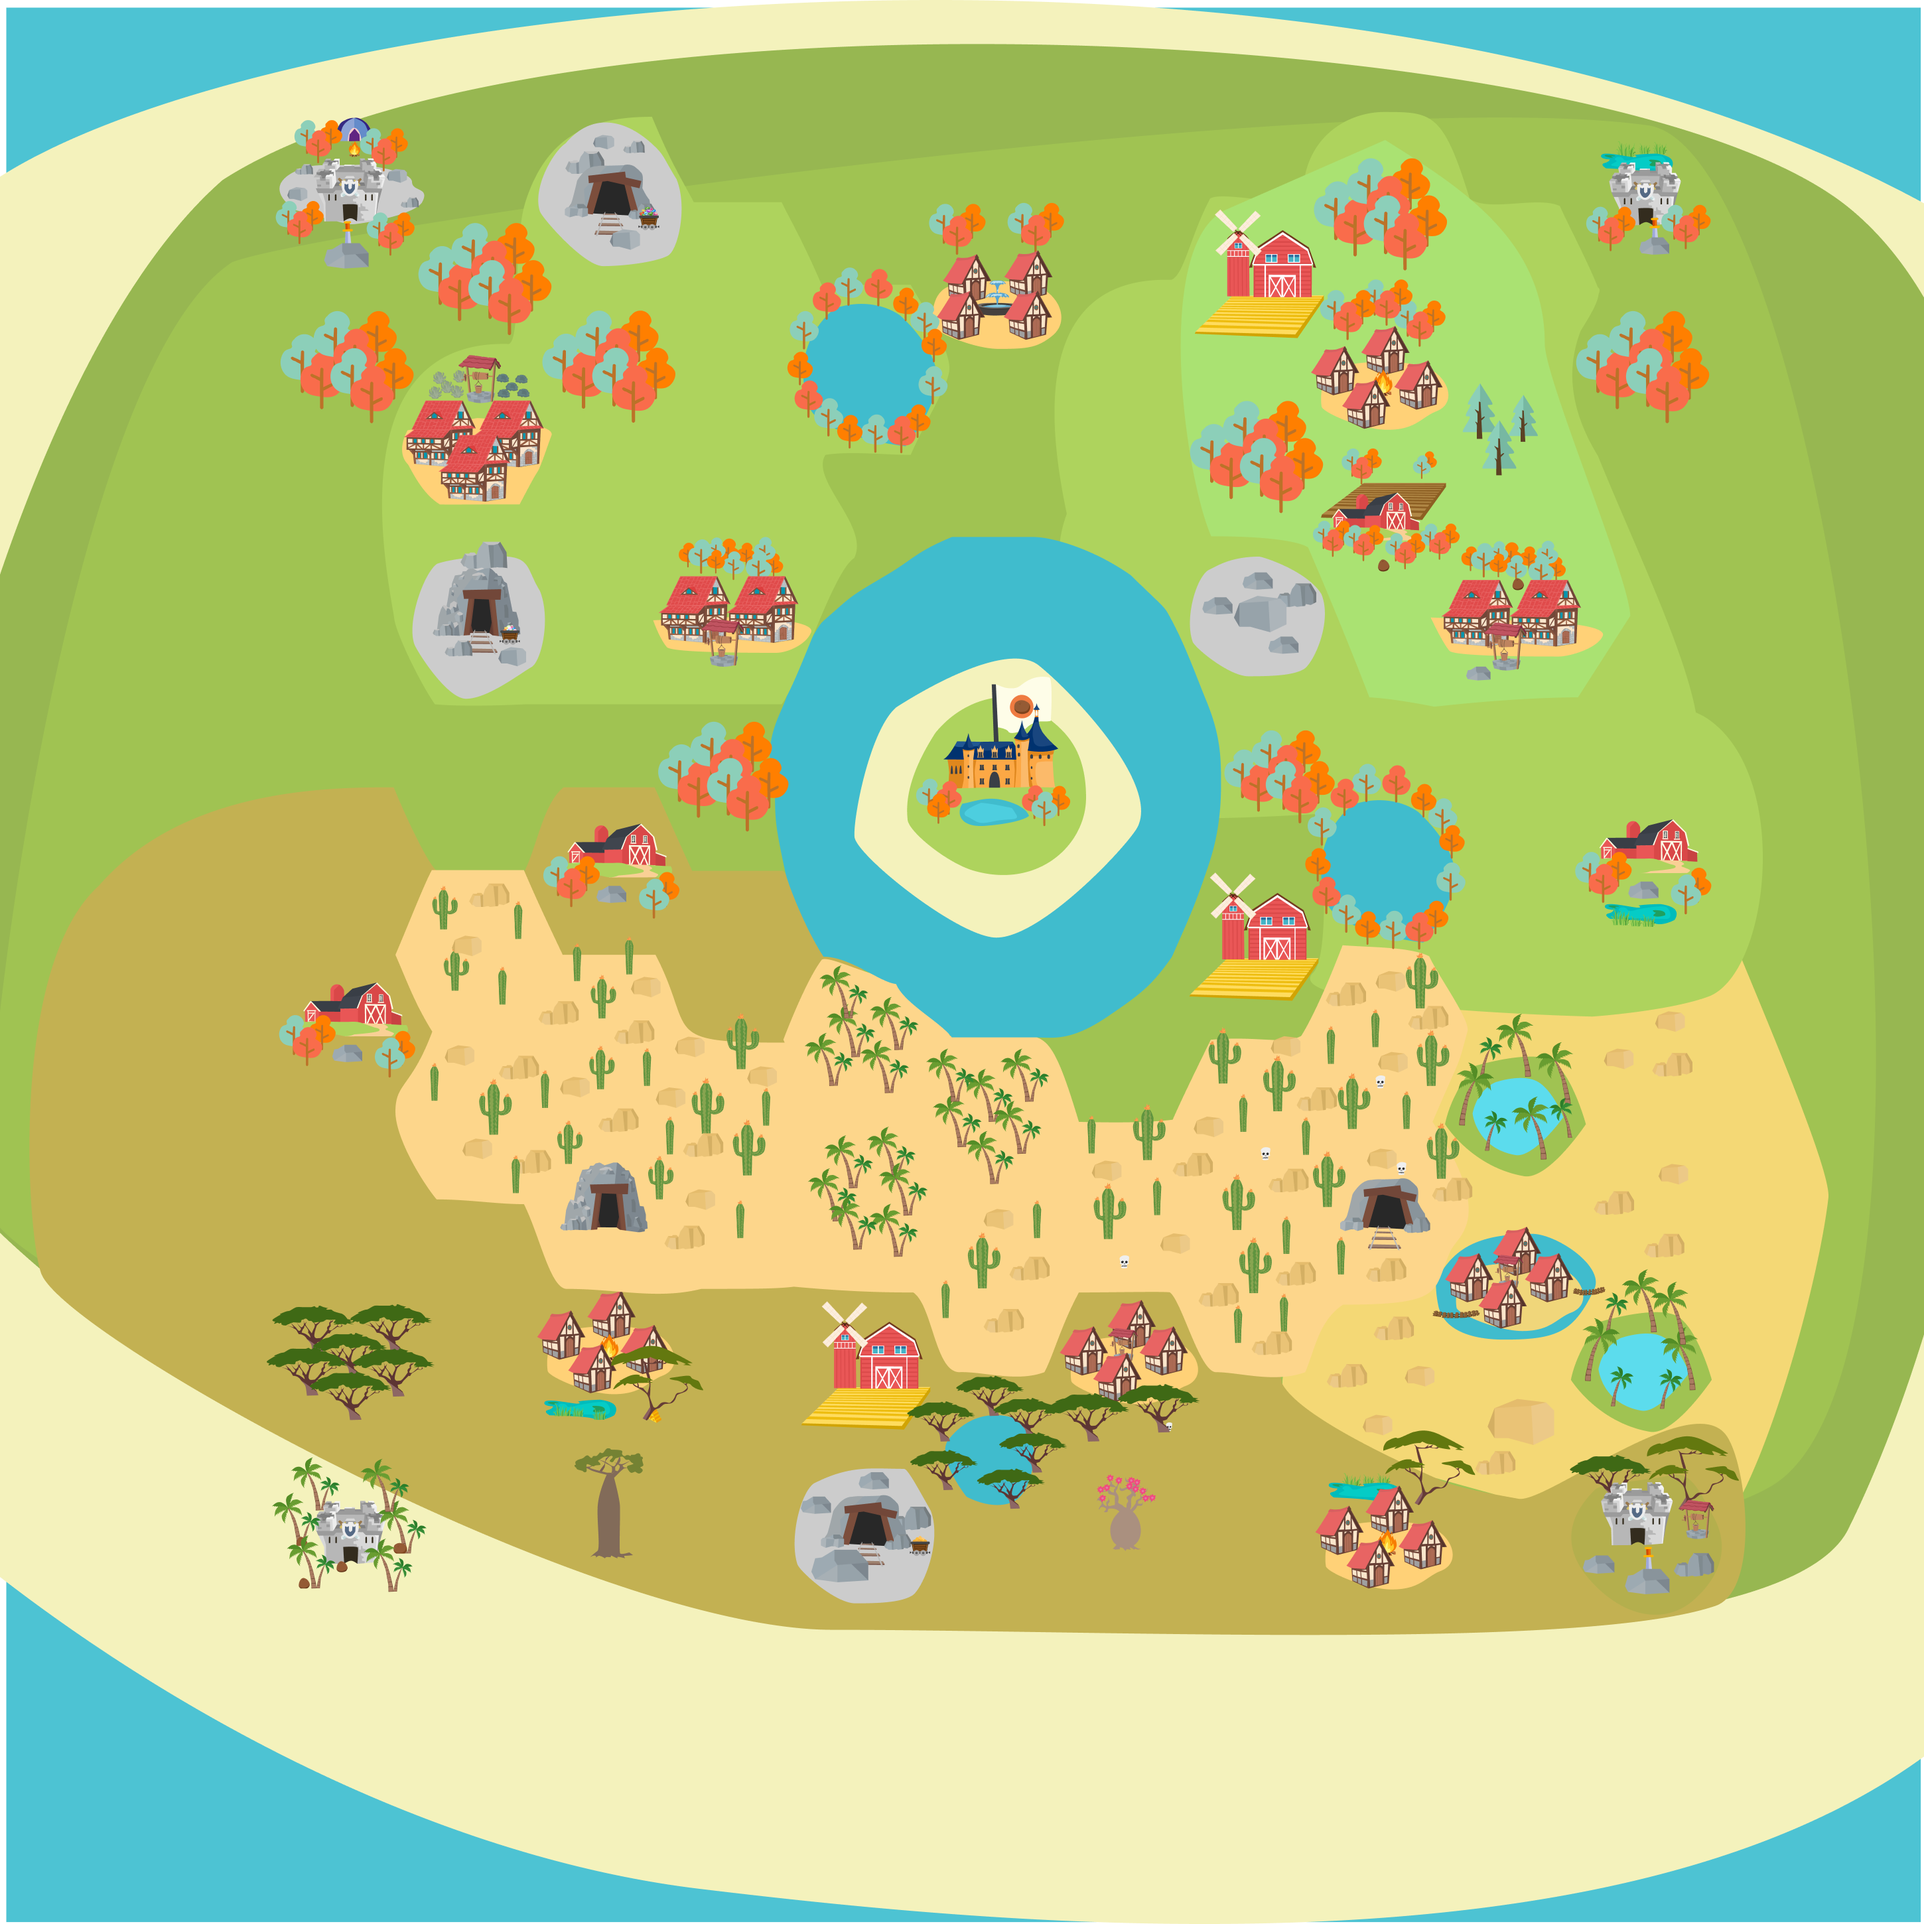
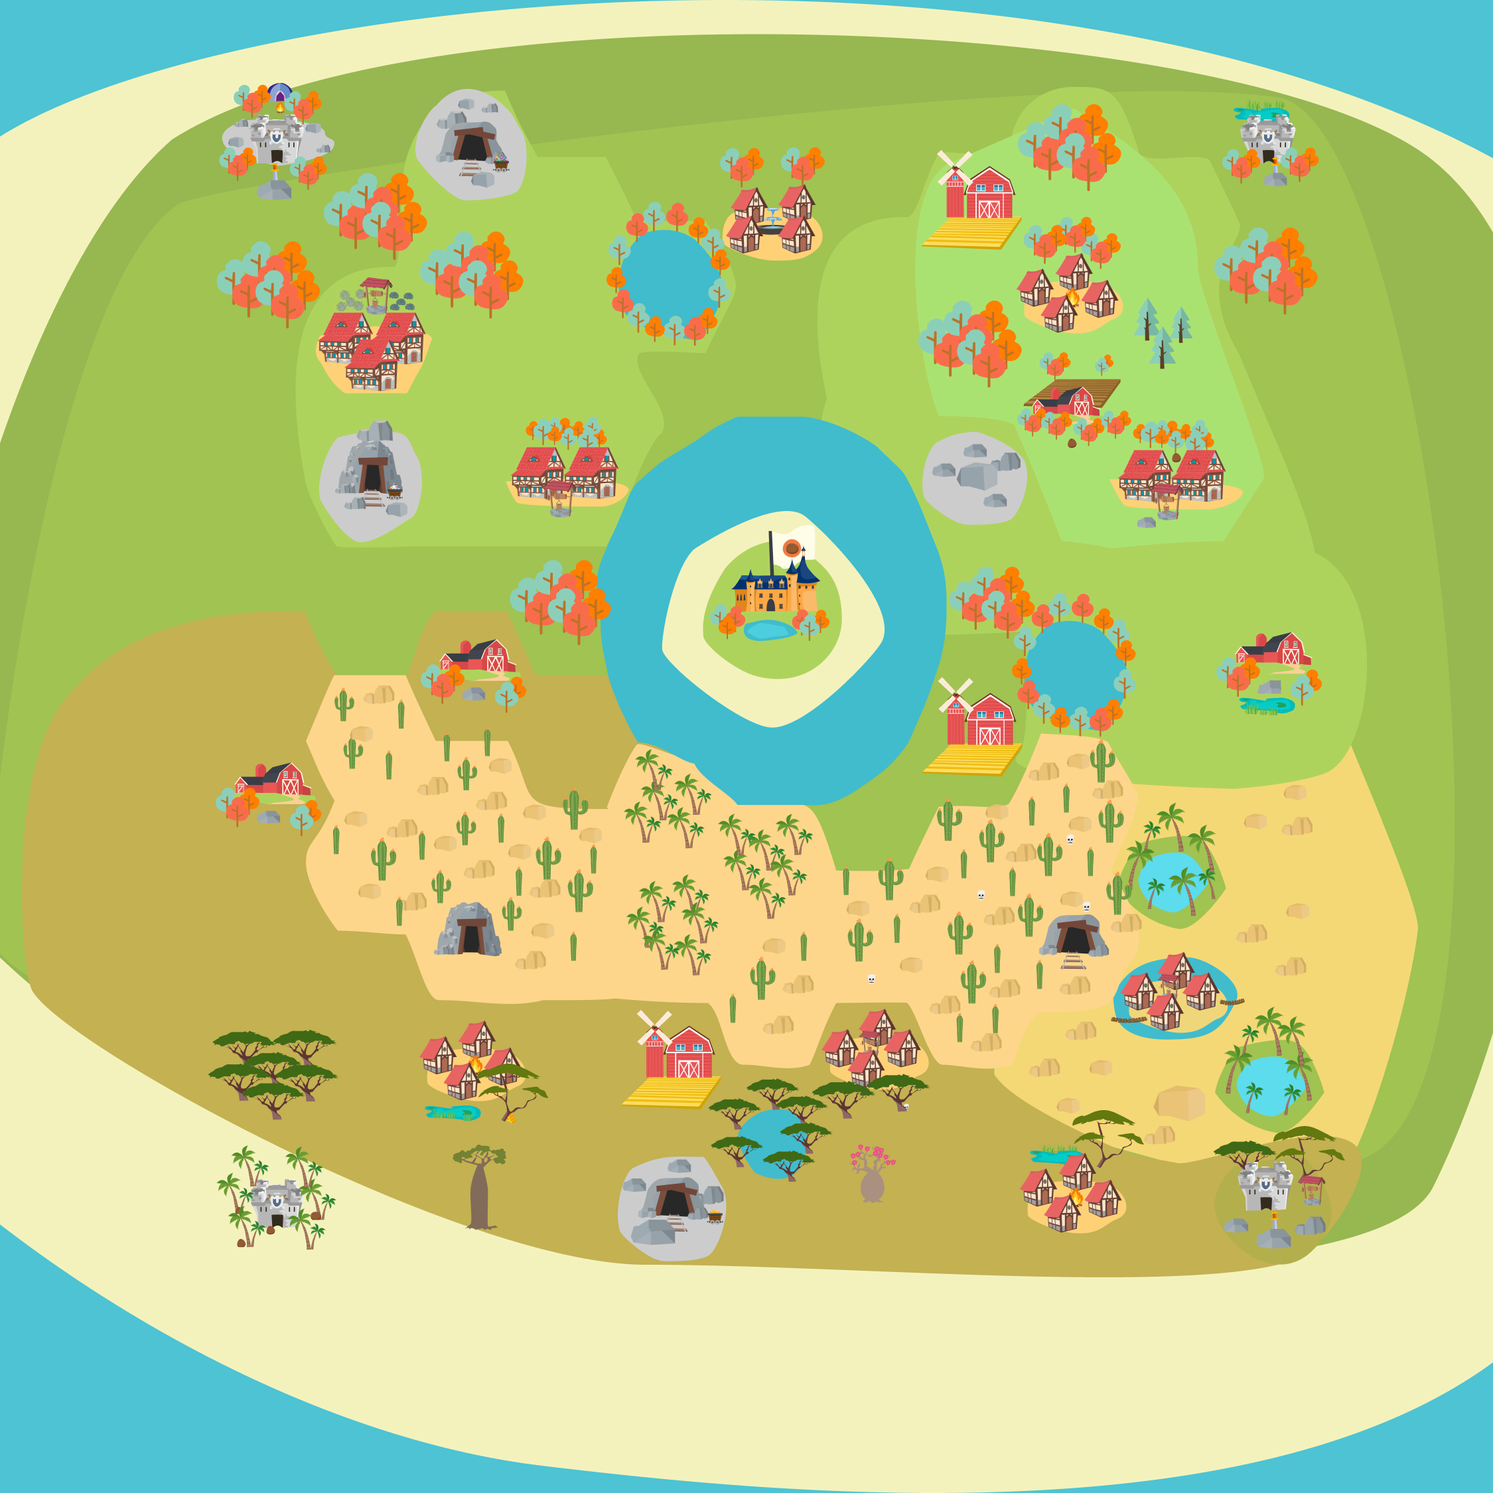
Update HexagonTile
- rescale hexagonTile from 250x250 to 200x200

diff --git a/src/update/MainIslandUpdate.java b/src/update/MainIslandUpdate.java
@@ -43,7 +43,7 @@ public class MainIslandUpdate {
 
 	public static void moveRight() {
 		calSpeed();
-		if (MainIsland.getBgX() + current_speed < 2900 - SceneController.getFullscreenWidth() - 10) {
+		if (MainIsland.getBgX() + current_speed < 2250 - SceneController.getFullscreenWidth() - 10) {
 			for (int i = 0; i < MapGrid.getGrids().size(); i++) {
 				ArrayList<HexagonPane> column = MapGrid.getGrids().get(i);
 				for (int j = 0; j < column.size(); j++) {
@@ -71,7 +71,7 @@ public class MainIslandUpdate {
 
 	public static void moveDown() {
 		calSpeed();
-		if (MainIsland.getBgY() + current_speed < 2900 - SceneController.getFullscreenHeight()) {
+		if (MainIsland.getBgY() + current_speed < 2250 - SceneController.getFullscreenHeight()) {
 			for (int i = 0; i < MapGrid.getGrids().size(); i++) {
 				ArrayList<HexagonPane> column = MapGrid.getGrids().get(i);
 				for (int j = 0; j < column.size(); j++) {

diff --git a/src/gui/entity/MapGrid.java b/src/gui/entity/MapGrid.java
@@ -7,13 +7,13 @@ import javafx.scene.layout.Pane;
 
 public class MapGrid extends Pane {
 
-	private final int HEXAGON_WIDTH = 250;
-	private final int HEXAGON_HEIGHT = 250;
-	private final double HEXAGON_DISSTANCE_X = 125;
-	private final double HEXAGON_INIT_X_ODD = -317;
-	private final double HEXAGON_INIT_Y_ODD = -483;
-	private final double HEXAGON_INIT_X_EVEN = -129.5;
-	private final double HEXAGON_INIT_Y_EVEN = -358;
+	private final int HEXAGON_WIDTH = 200;
+	private final int HEXAGON_HEIGHT = 200;
+	private final double HEXAGON_DISSTANCE_X = 100;
+	private final double HEXAGON_INIT_X_ODD = -100;
+	private final double HEXAGON_INIT_Y_ODD = -300;
+	private final double HEXAGON_INIT_X_EVEN = 50;
+	private final double HEXAGON_INIT_Y_EVEN = -200;
 	private static final int N_ROW = 9;
 	private static final int N_COLUMN = 6;
 

diff --git a/src/gui/MainIsland.java b/src/gui/MainIsland.java
@@ -45,8 +45,8 @@ import update.PlayerPanelUpdate;
 
 public class MainIsland implements Sceneable {
 
-	private final static int BG_CENTER_X = 720;
-	private final static int BG_CENTER_Y = 670;
+	private final static int BG_CENTER_X = 415;
+	private final static int BG_CENTER_Y = 420;
 	private static int bgX = BG_CENTER_X;
 	private static int bgY = BG_CENTER_Y;
 
@@ -74,6 +74,8 @@ public class MainIsland implements Sceneable {
 		root = new Pane();
 
 		bg = new ImageView(ClassLoader.getSystemResource("img/background/MainIsland.png").toString());
+//		bg.setFitWidth(BG_SIZE);
+//		bg.setFitHeight(BG_SIZE);
 		bg.setViewport(new Rectangle2D(BG_CENTER_X, BG_CENTER_Y, SceneController.getFullscreenWidth(),
 				SceneController.getFullscreenHeight()));
 

diff --git a/src/gui/entity/HexagonPane.java b/src/gui/entity/HexagonPane.java
@@ -76,7 +76,7 @@ public class HexagonPane extends Pane implements Clickable {
 		moveable = false;
 
 //		double[] points = { 53, 0.5, 197, 0.5, 250, 125.5, 197, 250.5, 53, 250.5, 0, 125.5 };
-		double[] points = { 62.5, 0, 187.5, 0, 250, 125, 187.5, 250, 62.5, 250, 0, 125 };
+		double[] points = { 50, 0, 150, 0, 200, 100, 150, 200, 50, 200, 0, 100 };
 
 		Polygon poly = new Polygon(points);
 
